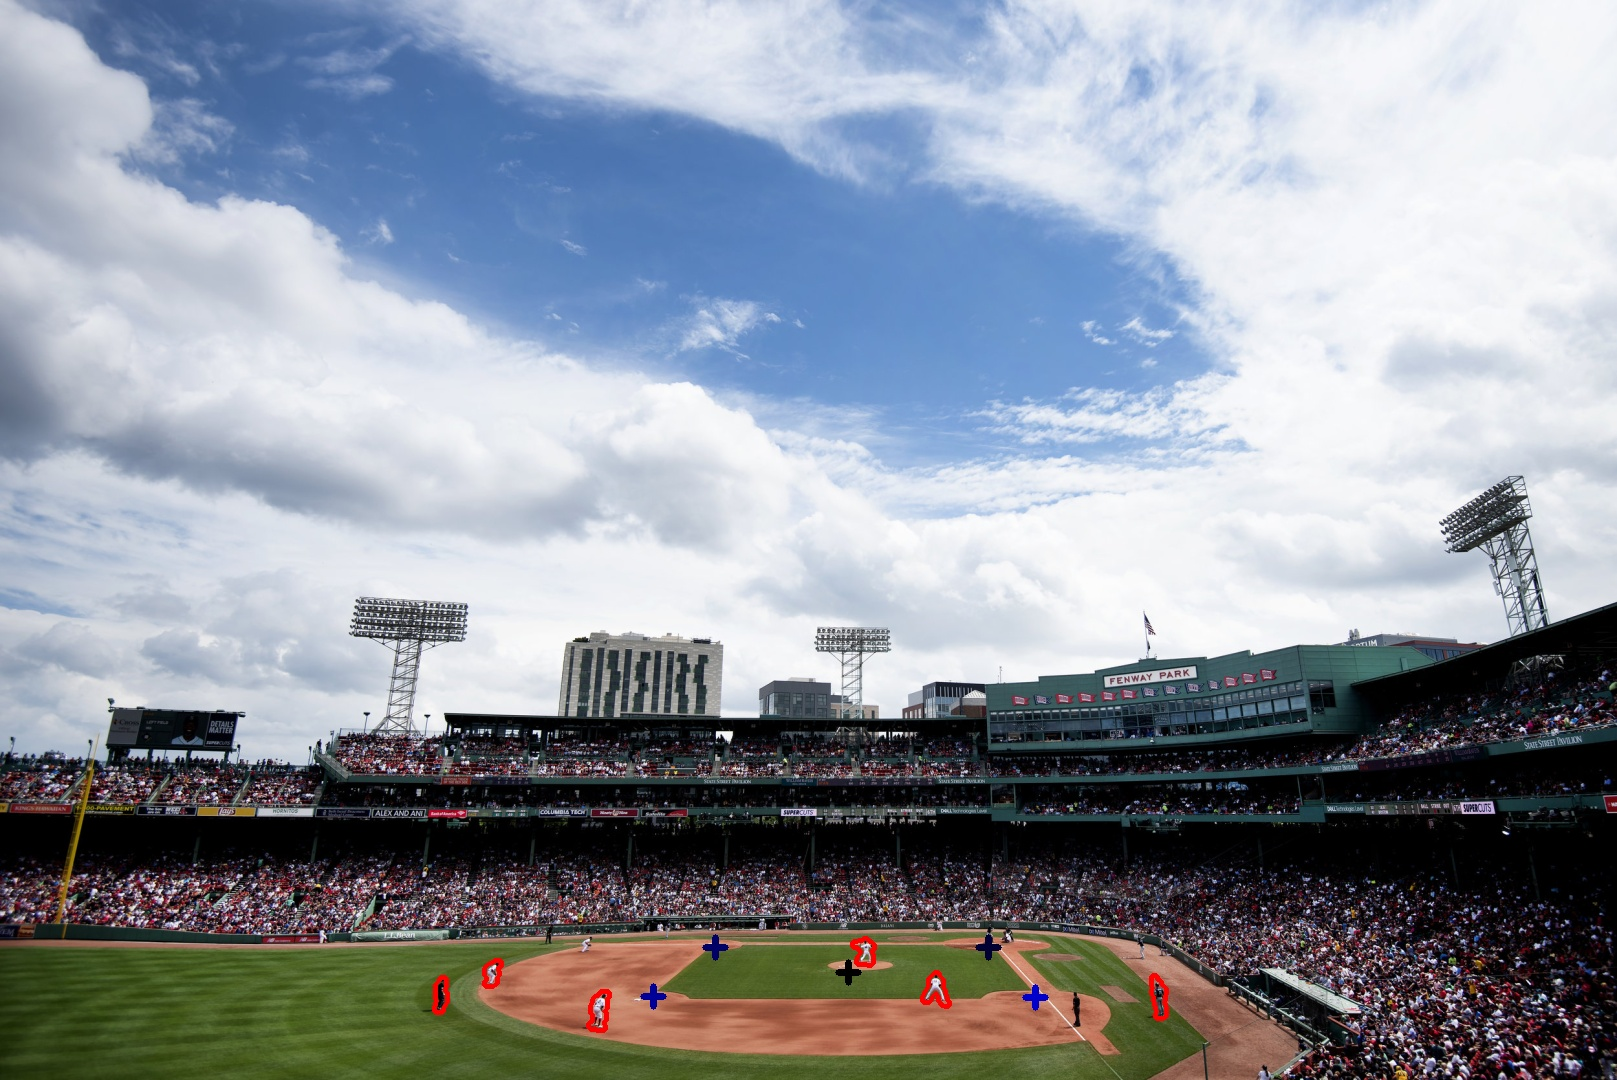
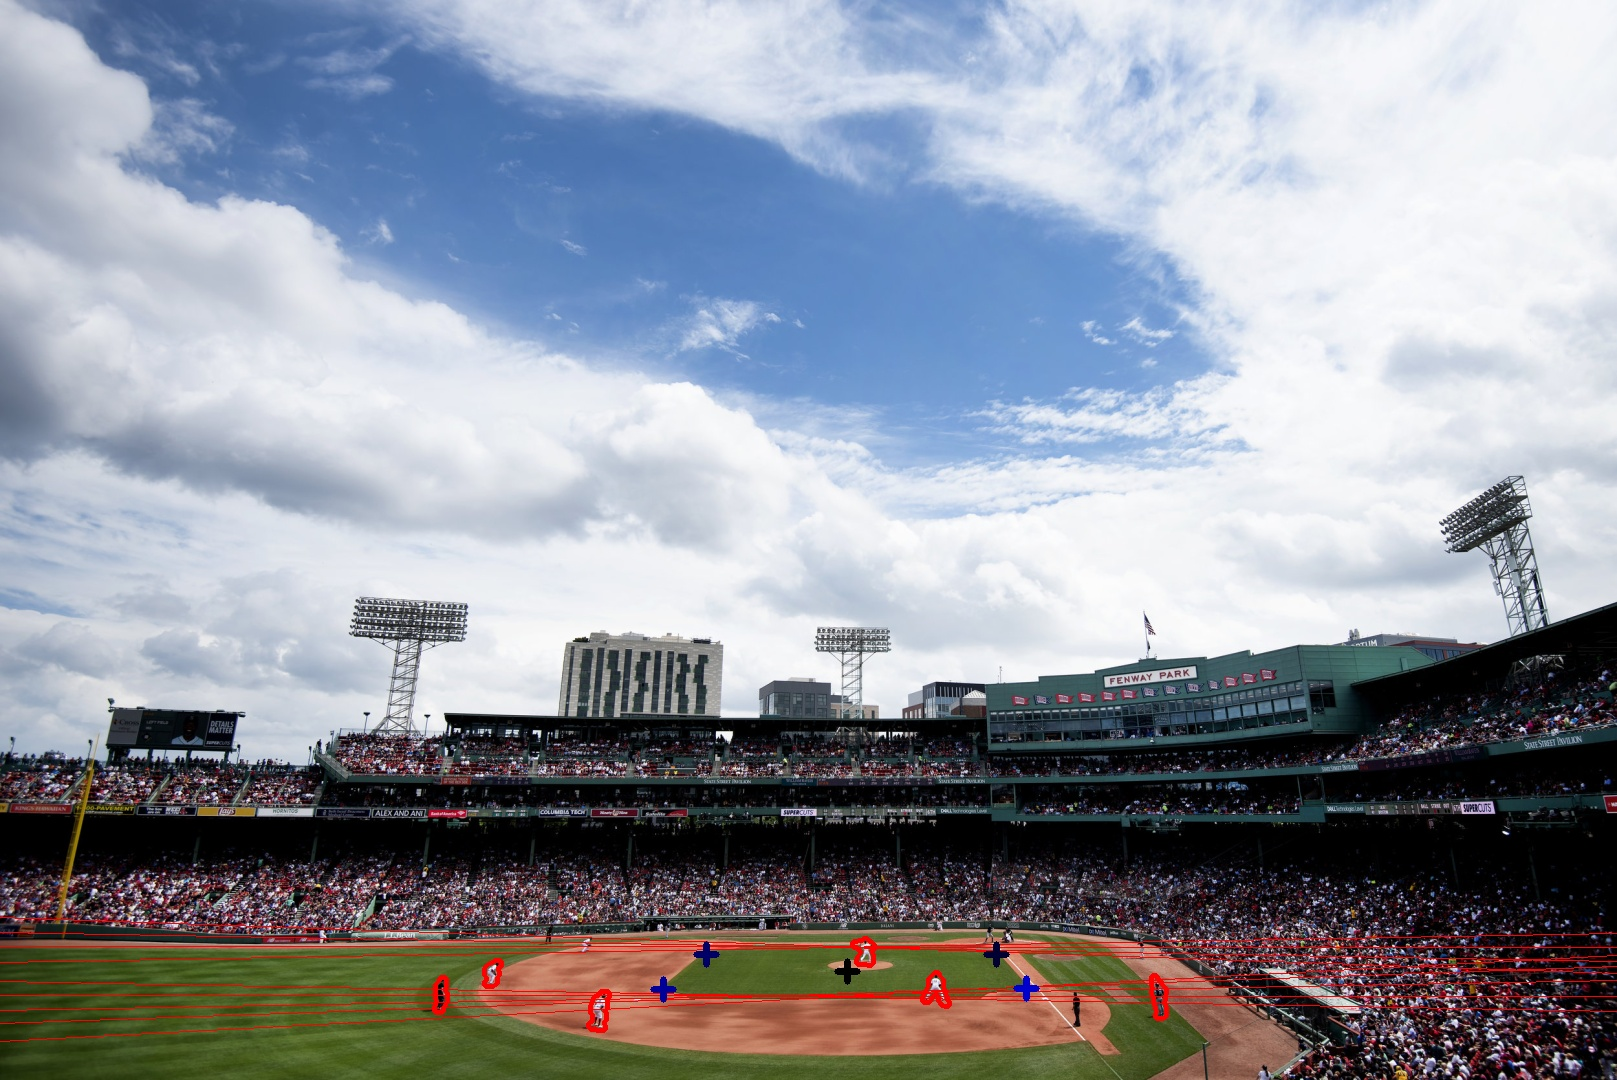
play around with HoughLines arguments-- images 8 and 10 not good...

Changed region(s): [[0.0, 0.8556, 1.0, 0.9778]]

diff --git a/TestPersonDetection/infieldFittingRoutines.py b/TestPersonDetection/infieldFittingRoutines.py
@@ -18,10 +18,10 @@ def hough_fit(contour, nsides=None, approx_fit=None, image_frame=None):
     It is faster if you can provide an decent initial fit - see approxPolyDP_adaptive().
     Pass in image_frame to see the lines found from HoughLines (use for debug only).'''
 
-    if approx_fit is None:
-        return None
-    
-    nsides = len(approx_fit)
+    if approx_fit is not None:
+        nsides = len(approx_fit)
+    if not nsides:
+        raise Exception("You need to set nsides or pass approx_fit")
 
     x, y, w, h = boundingRect(contour)
     offset_vec = array((x, y))
@@ -31,15 +31,15 @@ def hough_fit(contour, nsides=None, approx_fit=None, image_frame=None):
     # the binning does affect the speed, so tune it....
     contour_plot = zeros(shape=(h, w), dtype=uint8)
     drawContours(contour_plot, [shifted_con, ], -1, 255, 1)
-    lines = HoughLines(contour_plot, 1, pi / 180, threshold=8)
+    lines = HoughLines(contour_plot, 2, pi / 180, threshold=75)
 
-    """if image_frame is not None:      #for debugging
-        print('hough lines:')
+    if image_frame is not None:      #for debugging
+        #print('hough lines:')
         # trim the list if you get too many
         for l in lines:
             rho, theta = l[0]
-            print('   ', rho, degrees(theta))
-            plot_hough_line(image_frame,  rho, theta, offset=offset_vec)"""
+            #print('   ', rho, degrees(theta))
+            plot_hough_line(image_frame,  rho, theta, offset=offset_vec)
 
     if lines is None or len(lines) < nsides:
         # print("HoughLines found too few lines")
@@ -47,8 +47,8 @@ def hough_fit(contour, nsides=None, approx_fit=None, image_frame=None):
 
     if approx_fit is not None:
         res = _match_lines_to_fit(approx_fit - offset_vec, lines, w, h)
-    #else:   #Should hopefully not get here...
-    #    res = _find_sides(nsides, lines, w, h)
+    else:   #Should hopefully not get here...
+        res = _find_sides(nsides, lines, w, h)
 
     if res is None:
         return get_cnrs_using_extreme_pts(contour)
@@ -210,52 +210,7 @@ def get_cnrs_using_extreme_pts(contour):    #works if on lower 1st base or 3rd b
 
 
 
-"""
 
-If have time once finished with bare minimum, try using this method:
-
-
-def get_cnrs_using_common_slope(contour):
-    slopes = []
-    
-    for i in range(len(contour)):
-        slopes.append( SlopeInfo(contour[i], contour[(i + 1) % len(contour)]) )
-
-
-    commonSlopes = []
-    
-    for i in range(len(slopes) - 1):
-        for j in range(i + 1, len(slopes)):
-            if slopes[i].hasCommonSlopeAs(slopes[j]):
-                commonSlopes.append(slopes[i].combineSlopeInfos(slopes[j]))
-    
-    #sort according to highest count (choose top four lines)
-    #return intersecting pts of the lines
-
-class SlopeInfo:        #TODO include at least one pt to find the line equation
-    def __init__(self, pt_a, pt_b):
-        self.count = 1
-        self.total = SlopeInfo.slope(pt_a, pt_b)
-    
-    def getAverageSlope(self):
-        return self.total / self.count
-
-    def combineSlopeInfos(self, slopeInfo):
-        self.count += slopeInfo.count
-        self.total += slopeInfo.total
-
-    def hasCommonSlopeAs(self, slopeInfo):
-        return abs(slopeInfo.getAverageSlope() - self.getAverageSlope()) <= (1/20)
-
-    @staticmethod
-    def slope(pt_a, pt_b):
-        return (pt_a[1] - pt_b[1]) / (pt_a[0] - pt_b[0])
-"""
-
-
-
-
-"""
 def _find_sides(nsides, hough_lines, w, h):
     # The returned lines from HoughLines() are ordered by confidence, but there may/will be
     #  many variants of the best lines. Loop through the lines and pick the best from
@@ -382,4 +337,3 @@ def _is_close(best_lines, candidate, coord_near_ref, dist_thres, theta_thres):
         if delta_dist <= dist_thres and delta_theta <= theta_thres:
             return True
     return False
-"""

diff --git a/TestPersonDetection/personDetectionTesting.py b/TestPersonDetection/personDetectionTesting.py
@@ -274,7 +274,7 @@ class PlayerFinder(object):
         '''Best fit of a quadrilateral to the contour'''
 
         approx = infieldFittingRoutines.approxPolyDP_adaptive(contour, nsides=4)
-        return infieldFittingRoutines.hough_fit(contour, nsides=4, approx_fit=approx, image_frame=image_frame)
+        return infieldFittingRoutines.hough_fit(contour, nsides=4, approx_fit=None, image_frame=image_frame)
 
     def prepare_output_image(self, input_frame):
         '''Prepare output image for drive station. Draw the found target contour.'''
